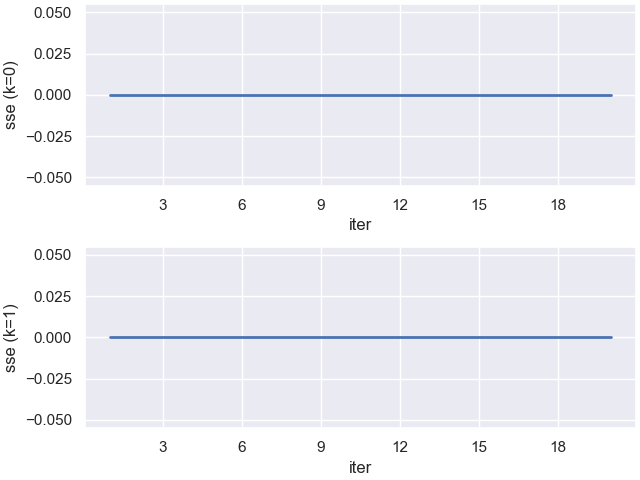
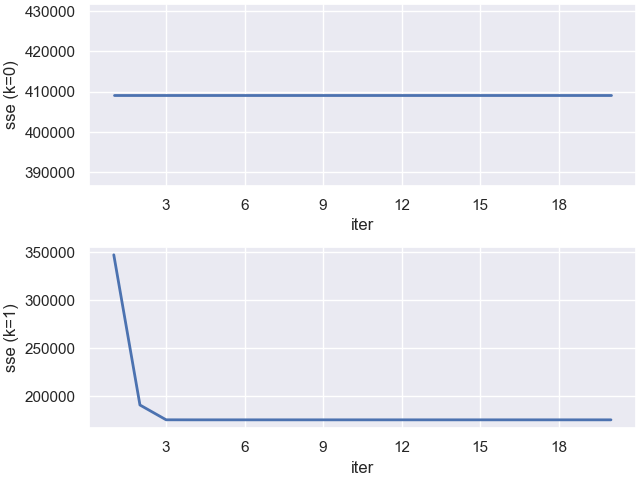
FInal Update

diff --git a/pa4_starter/src/main.py b/pa4_starter/src/main.py
@@ -6,7 +6,6 @@ import os
 from matplotlib.ticker import MaxNLocator
 from matplotlib import gridspec
 import random
-import statistics as st
 
 sns.set()
 
@@ -39,6 +38,8 @@ def plot_y_vs_x_list(y_vs_x, x_label, y_label, save_path):
         os.mkdir(fld)
 
     plots_per_fig = 2
+    if(type(y_vs_x) != 'numpy.ndarray'):
+        y_vs_x = [y_vs_x]
 
     ks_sses_keys = list(range(0, len(y_vs_x)))
     js = list(range(0, len(ks_sses_keys), plots_per_fig))
@@ -91,33 +92,32 @@ def apply_kmeans(do_pca, x_train, y_train, kmeans_max_iter, kmeans_max_k):
     train_sses_vs_k = []
     train_purities_vs_k = []
 
-    ##################################
-    #      YOUR CODE GOES HERE       #
-    ##################################
-
     for k in range(1, kmeans_max_k):
         print("kmeans loop: " + str(k))
         # Part 1.2 here
         inner_train_sses_vs_iter = []
         inner_train_sses_vs_k = []
         inner_train_purities_vs_k = []
-        # for i in range(5):
-        kmeans = KMeans(k, kmeans_max_iter)
-        sse_vs_iter = kmeans.fit(x_train)
-        #inner_train_sses_vs_iter.append(sse_vs_iter)
-        #inner_train_purities_vs_k.append(kmeans.get_purity(x_train, y_train))
-        #inner_train_sses_vs_k.append(min(sse_vs_iter))
-        train_sses_vs_iter.append(sse_vs_iter)
-        train_purities_vs_k.append(kmeans.get_purity(x_train, y_train))
-        train_sses_vs_k.append(min(sse_vs_iter))
         
+        for i in range(5):
+            kmeans = KMeans(k, kmeans_max_iter)
+            sse_vs_iter = kmeans.fit(x_train)
 
-        # train_purities_vs_k = st.mean(inner_train_purities_vs_k)
-        # train_sses_vs_iter  = st.mean(inner_train_sses_vs_iter)
-        # train_sses_vs_k     = st.mean(inner_train_sses_vs_k)
+            inner_train_sses_vs_iter.append(sse_vs_iter)
+            inner_train_purities_vs_k.append(kmeans.get_purity(x_train, y_train))
+            inner_train_sses_vs_k.append(min(sse_vs_iter))
 
-    plot_y_vs_x_list(train_sses_vs_iter, x_label='iter', y_label='sse',
-                     save_path='plot_sse_vs_k_subplots_%d'%do_pca)
+            # train_sses_vs_iter.append(sse_vs_iter)
+            # train_purities_vs_k.append(kmeans.get_purity(x_train, y_train))
+            # train_sses_vs_k.append(min(sse_vs_iter))
+            
+
+        train_purities_vs_k = np.mean(inner_train_purities_vs_k)
+        train_sses_vs_iter  = np.mean(inner_train_sses_vs_iter)
+        train_sses_vs_k     = np.mean(inner_train_sses_vs_k)
+
+    # plot_y_vs_x_list(train_sses_vs_iter, x_label='iter', y_label='sse',
+                    # save_path='plot_sse_vs_k_subplots_%d'%do_pca)
     plot_y_vs_x(train_sses_vs_k, x_label='k', y_label='sse',
                 save_path='plot_sse_vs_k_%d'%do_pca)
     plot_y_vs_x(train_purities_vs_k, x_label='k', y_label='purities',

diff --git a/pa4_starter/src/clustering.py b/pa4_starter/src/clustering.py
@@ -116,7 +116,7 @@ class KMeans():
             # Gotta get the mode of each subpurity, then divide that number by the size of the buket
             mode = st.mode(purity[k])
             kPurities[k] = purity[k].count(mode)/len(purity[k])
-        return st.mean(kPurities)
+        return np.mean(kPurities)
 
     # DONE ------
     def fit(self, x):

diff --git a/pa4_starter/README.md b/pa4_starter/README.md
@@ -1,0 +1,11 @@
+# Assignment 4
+## Alison Jones
+## Arnav Bhutani
+## Justin Parks
+
+### How to Run:
+
+    Kmeans: python main.py --kmeans 1 --kmeans_max_iter 20 --kmeans_max_k 10
+    *PCA: python main.py --pca 1
+
+    *Parts 2.3 and 2.4 are unimplemented, so there may be trouble running this one
